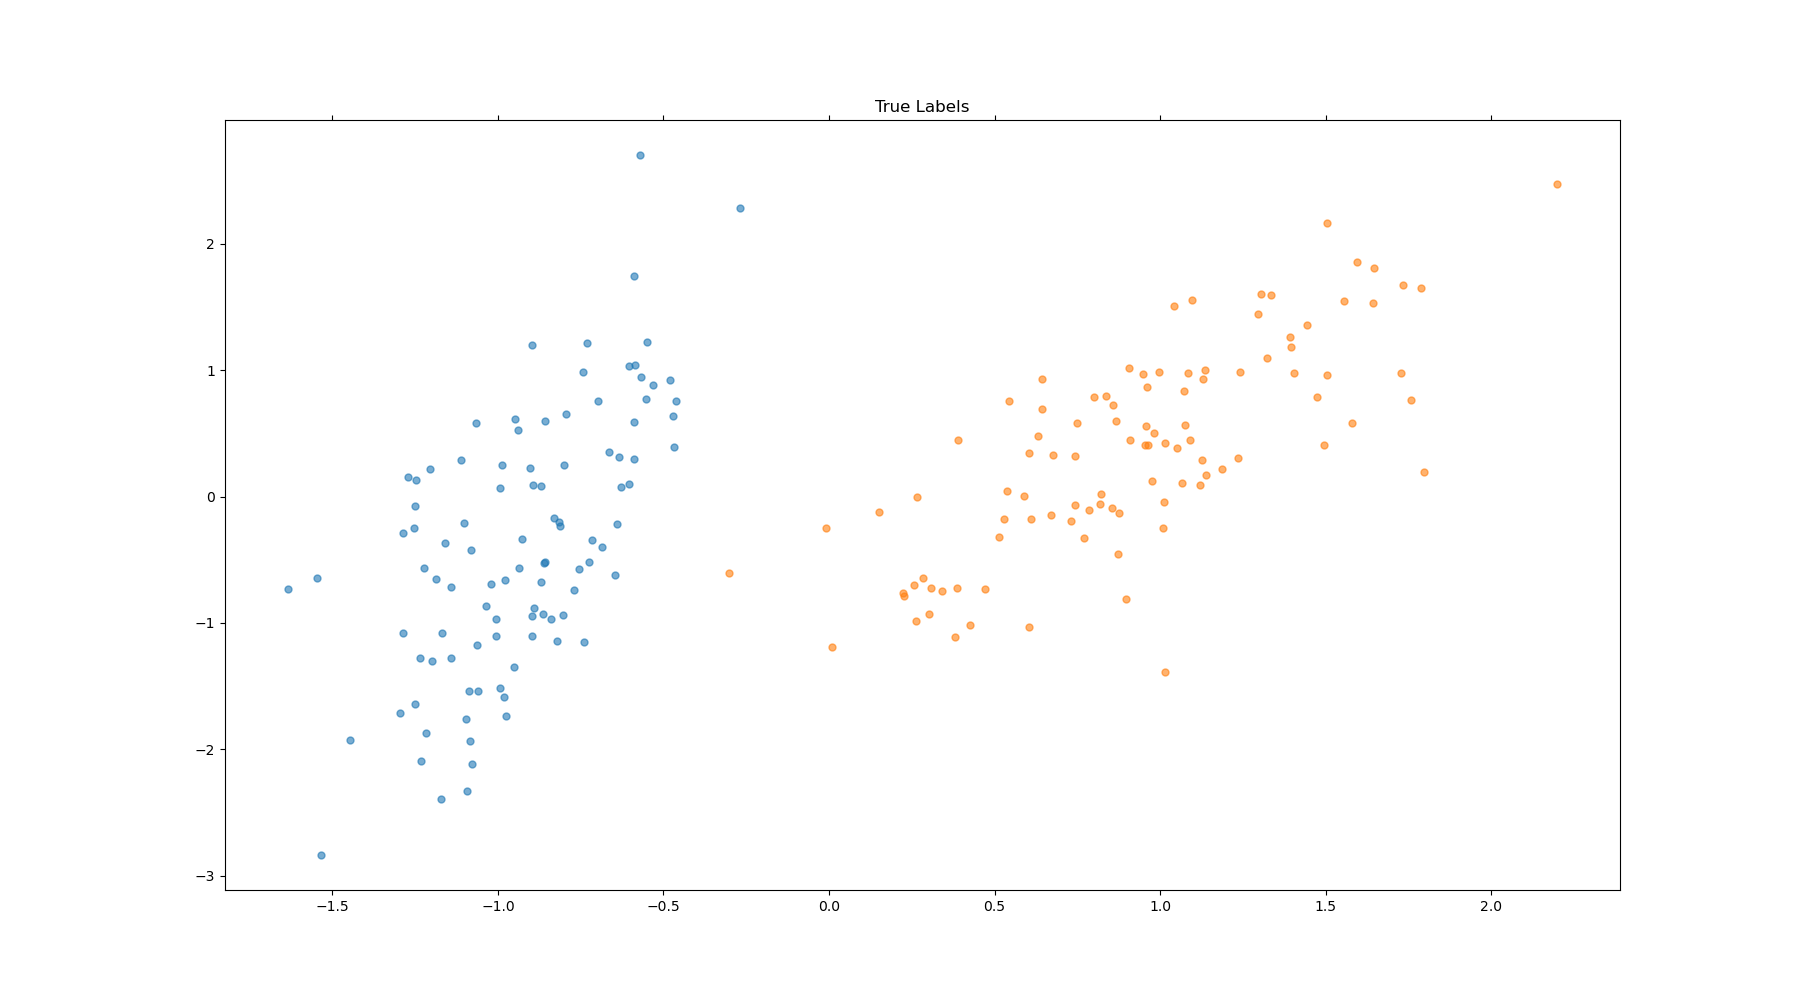
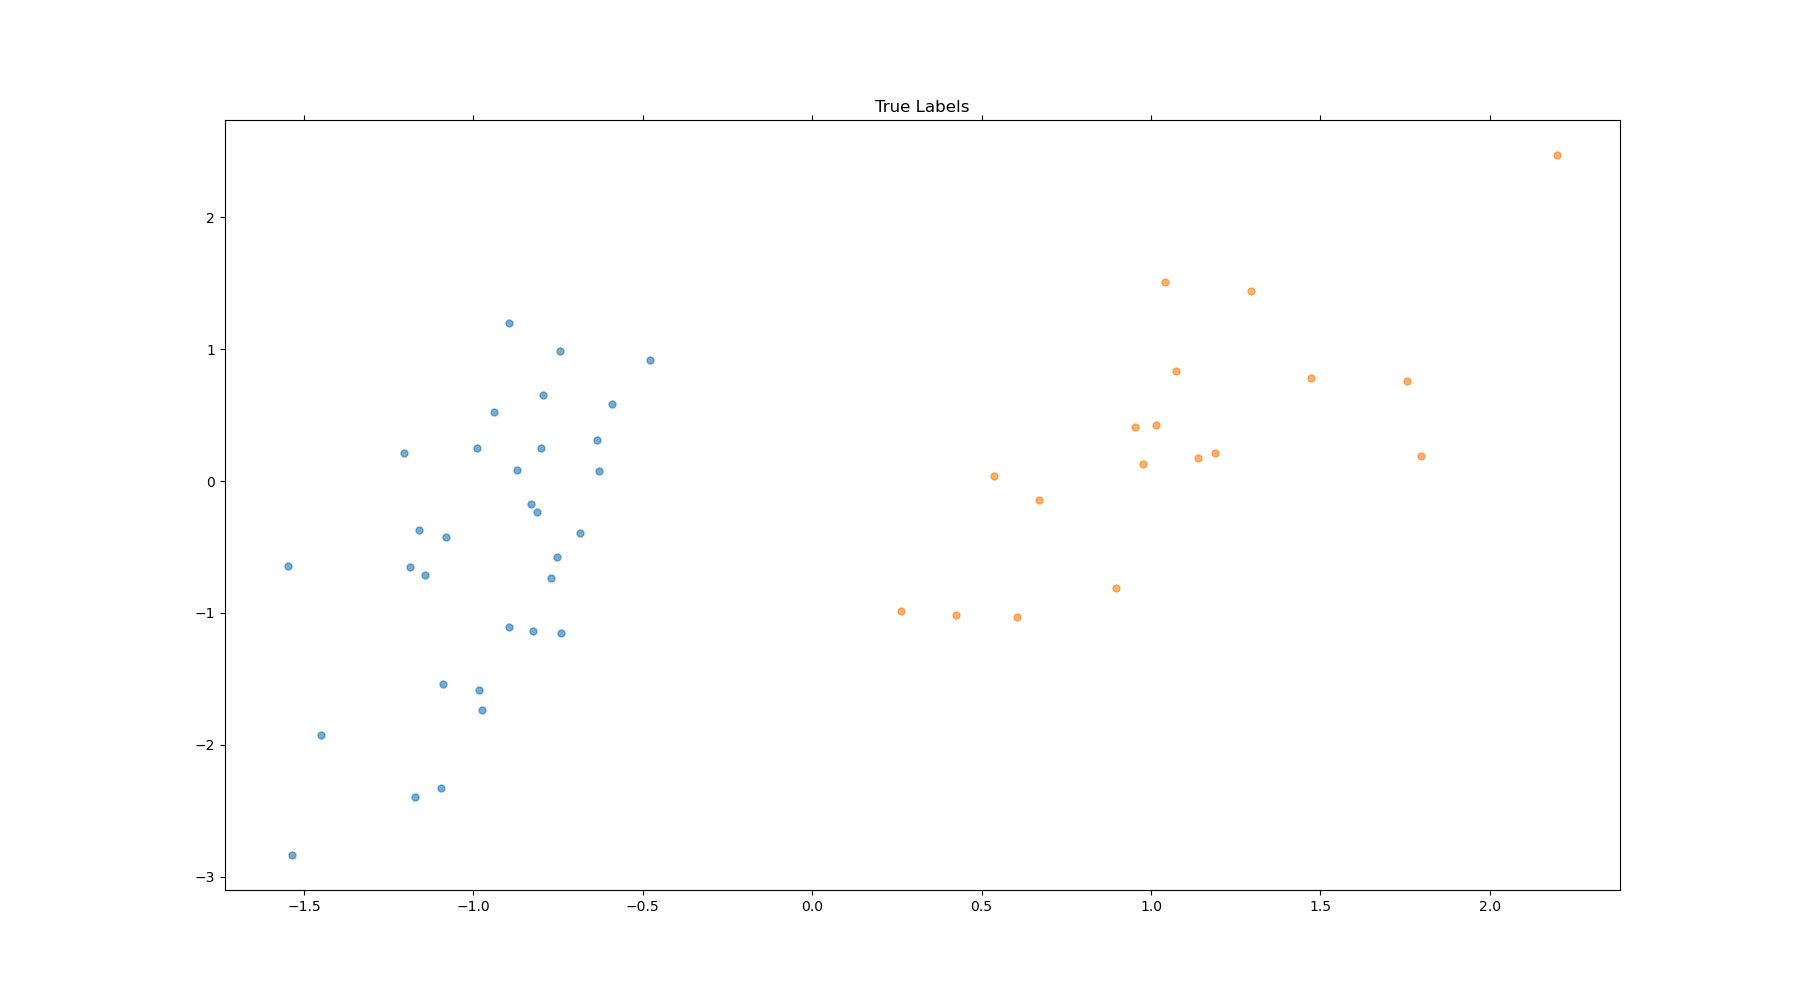
Running version

diff --git a/main.py b/main.py
@@ -11,8 +11,8 @@ from utils import two_dim_visualization
 
 if __name__ == '__main__':
 
-    # toydata = pd.read_csv('data/toydata_tiny.csv')
-    # X, y = np.array(toydata[['x1', 'x2']]), np.array(toydata['y'])
+    #toydata = pd.read_csv('data/toydata_tiny.csv')
+    #X, y = np.array(toydata[['x1', 'x2']]), np.array(toydata['y'])
 
     toydata = pd.read_csv('data/toydata_large.csv')
     X, y = np.array(toydata[['x1', 'x2', 'x3', 'x4', 'x5', 'x6', 'x7', 'x8']]), np.array(toydata['y'])
@@ -74,19 +74,19 @@ if __name__ == '__main__':
     print('\n--- Compute non-linear features ---')
     start = time.time()
     nlf = NonLinearFeatures(m=50, sigma=2.0)
-    X = nlf.fit_transform(X)
+    X_rff = nlf.fit_transform(X)
     end = time.time()
     print(f'Runtime transformation to non-linear features: {end-start}')
 
     # train/test split
-    X_train, X_test, y_train, y_test = train_test_split(X, y, random_state=42)
+    X_rff_train, X_rff_test, y_train, y_test = train_test_split(X_rff, y, random_state=42)
 
     # fit and predict rff sequential
     print('\n--- RFF Sequential SVM ---')
     start = time.time()
     rff_sequential_svm = SequentialSVM(learning_rate, regularization)
-    rff_sequential_svm.fit(X_train, y_train)
-    y_predicted_rff_sequential = rff_sequential_svm.predict(X_test)
+    rff_sequential_svm.fit(X_rff_train, y_train)
+    y_predicted_rff_sequential = rff_sequential_svm.predict(X_rff_test)
     end = time.time()
     print("Runtime fit and predict:", end - start)
     print("Accuracy: {}".format(accuracy_score(y_test, y_predicted_rff_sequential)))
@@ -95,13 +95,23 @@ if __name__ == '__main__':
     print('\n--- RFF Parallel SVM ---')
     start = time.time()
     rff_parallel_svm = ParallelSVM(learning_rate, regularization)
-    rff_parallel_svm.fit(X_train, y_train)
-    y_predicted_rff_parallel = rff_parallel_svm.predict(X_test)
+    rff_parallel_svm.fit(X_rff_train, y_train)
+    y_predicted_rff_parallel = rff_parallel_svm.predict(X_rff_test)
     end = time.time()
     print("Runtime fit and predict:", end - start)
     print("Accuracy: {}".format(accuracy_score(y_test, y_predicted_rff_parallel)))
 
     # Plot true labels
-    # two_dim_visualization(X, y, 'True Labels', 'true')
+    two_dim_visualization(X_test, y_test, 'True Labels', 'true')
     # Plot predicted labels
-    # two_dim_visualization(X, y_predicted, 'Predicted Labels', 'predicted')
+    two_dim_visualization(X_test, y_predicted_sklearn_svc, 'Predicted Labels Sklearn SVC',
+                          'output/predicted_sklearn_svc.png')
+    two_dim_visualization(X_test, y_predicted_linear_sequential, 'Predicted Labels Linear Sequential',
+                          'output/predicted_linear_sequential.png')
+    two_dim_visualization(X_test, y_predicted_linear_parallel, 'Predicted Labels Linear Parallel',
+                          'output/predicted_linear_parallel.png')
+    two_dim_visualization(X_test, y_predicted_rff_sequential, 'Predicted Labels RFF Sequential',
+                          'output/predicted_rff_sequential.png')
+    two_dim_visualization(X_test, y_predicted_rff_parallel, 'Predicted Labels RFF Parallel',
+                          'output/predicted_rff_parallel.png')
+

diff --git a/utils.py b/utils.py
@@ -1,10 +1,25 @@
 import pandas as pd
 import matplotlib.pyplot as plt
+from sklearn.metrics.pairwise import cosine_similarity
+from sklearn.decomposition import PCA
 
 
-def two_dim_visualization(features, labels, algorithm, filename):
+def two_dim_visualization(data, labels, algorithm, path):
+    """
+    Create a 2D scatter plot from the given input data with coloring corresponding to the labelling.
 
-    x1, x2 = features[:, 0], features[:, 1]
+    Parameters
+    ----------
+    data : ndarray of shape (n samples, 2 features)
+        Input data.
+    labels : list (int)
+        List of labels, corresponding to the respective labeling of the data points.
+    path : str
+        String referring to the path, where the plot shall be stored.
+    """
+
+    """
+    x1, x2 = data[:, 0], data[:, 1]
 
     df = pd.DataFrame({'x1': x1, 'x2': x2, 'label': labels})
     groups = df.groupby('label')
@@ -16,7 +31,14 @@ def two_dim_visualization(features, labels, algorithm, filename):
         ax.set_aspect('auto')
         ax.tick_params(axis='x', which='both', bottom='off', top='off', labelbottom='off')
         ax.tick_params(axis='y', which='both', left='off', top='off', labelleft='off')
+    """
 
-    ax.set_title("{}".format(algorithm))
-    plt.savefig(f'output/{filename}.png')
+    x1, x2 = data[:, 0], data[:, 1]
+    plt.figure(figsize=(8, 8))
+    plt.scatter(x1, x2, c=labels, cmap='prism', alpha=1.)
+    plt.tick_params(axis='x', which='both', bottom='off', top='off', labelbottom='off')
+    plt.tick_params(axis='y', which='both', left='off', top='off', labelleft='off')
+    plt.xlabel(r"$x_1$", fontsize=14)
+    plt.ylabel(r"$x_2$", fontsize=14)
+    plt.savefig(path, dpi=150, format='png')
     plt.show()
